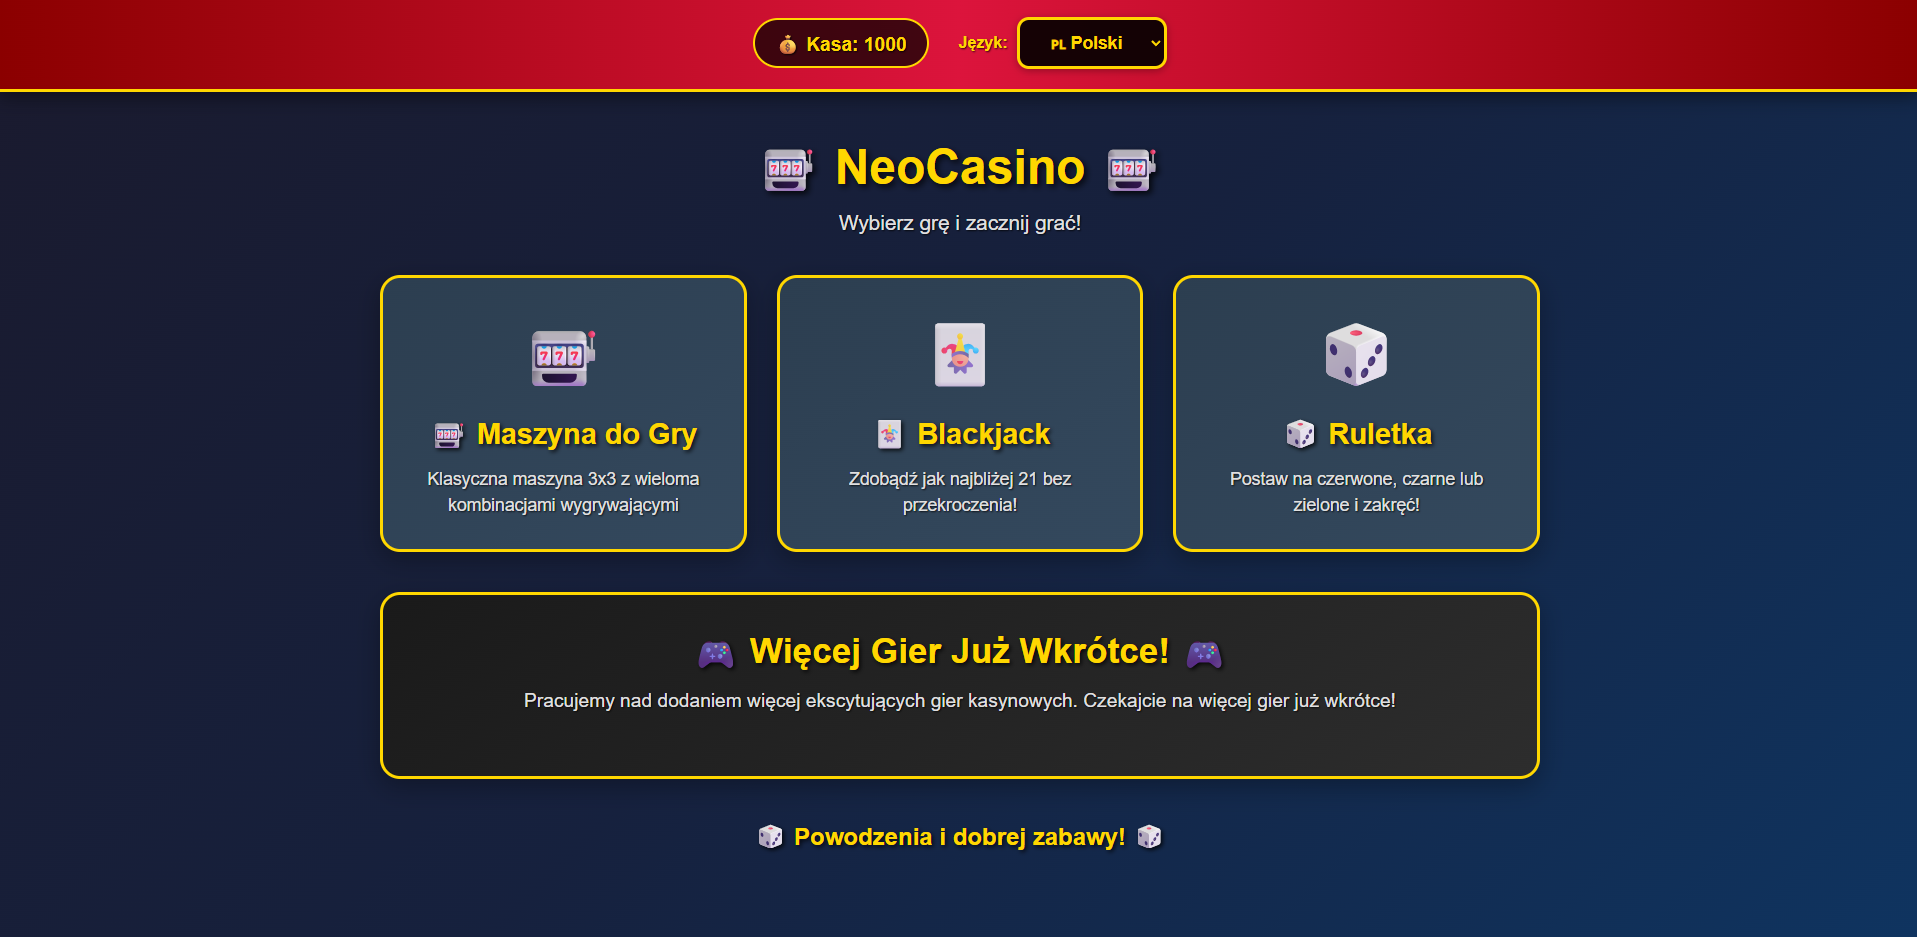
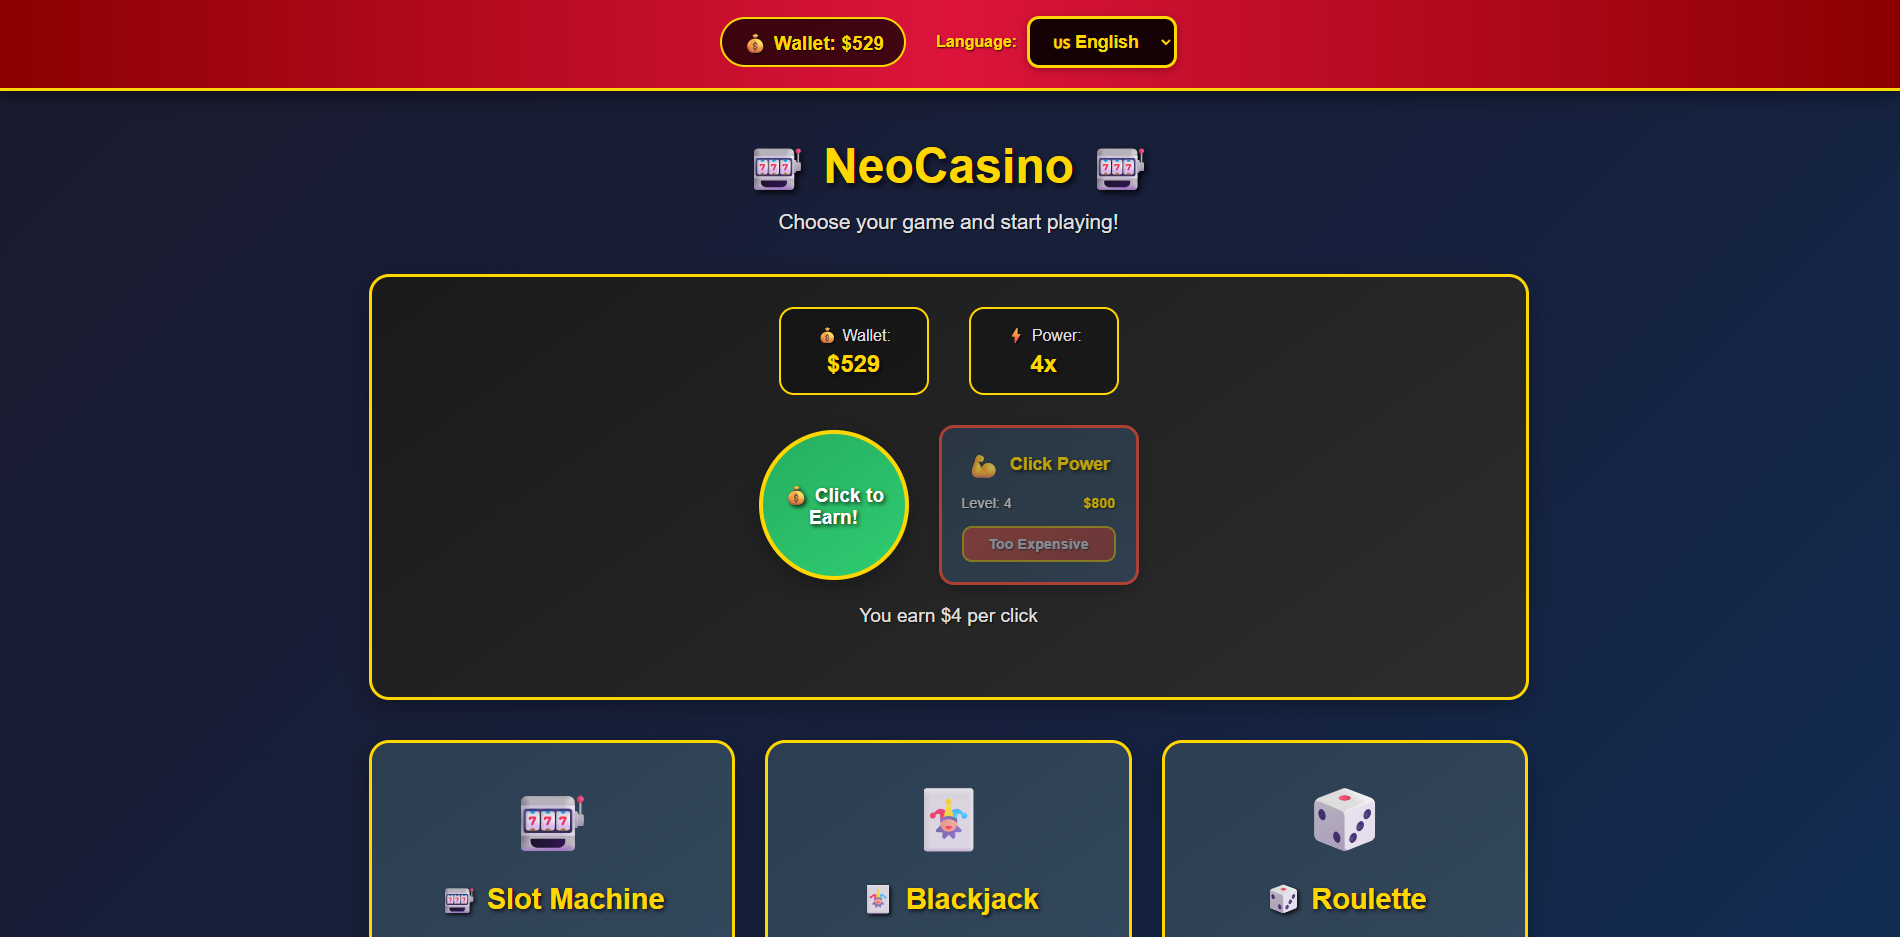
feat: add more infmoraction about neoCasino and devLink

diff --git a/public/output.css b/public/output.css
@@ -283,9 +283,6 @@
   .bottom-32 {
     bottom: calc(var(--spacing) * 32);
   }
-  .left-1 {
-    left: calc(var(--spacing) * 1);
-  }
   .left-1\/3 {
     left: calc(1/3 * 100%);
   }
@@ -372,9 +369,6 @@
   }
   .inline-flex {
     display: inline-flex;
-  }
-  .table {
-    display: table;
   }
   .h-3 {
     height: calc(var(--spacing) * 3);
@@ -493,9 +487,6 @@
   .flex-1 {
     flex: 1;
   }
-  .border-collapse {
-    border-collapse: collapse;
-  }
   .transform {
     transform: var(--tw-rotate-x,) var(--tw-rotate-y,) var(--tw-rotate-z,) var(--tw-skew-x,) var(--tw-skew-y,);
   }
@@ -504,9 +495,6 @@
   }
   .cursor-pointer {
     cursor: pointer;
-  }
-  .resize {
-    resize: both;
   }
   .grid-cols-1 {
     grid-template-columns: repeat(1, minmax(0, 1fr));
@@ -660,9 +648,6 @@
     border-bottom-style: var(--tw-border-style);
     border-bottom-width: 1px;
   }
-  .border-purple-400 {
-    border-color: var(--color-purple-400);
-  }
   .border-purple-400\/30 {
     border-color: color-mix(in srgb, oklch(71.4% 0.203 305.504) 30%, transparent);
     @supports (color: color-mix(in lab, red, red)) {
@@ -671,9 +656,6 @@
   }
   .border-teal-400 {
     border-color: var(--color-teal-400);
-  }
-  .border-white {
-    border-color: var(--color-white);
   }
   .border-white\/10 {
     border-color: color-mix(in srgb, #fff 10%, transparent);
@@ -719,9 +701,6 @@
     @supports (color: color-mix(in lab, red, red)) {
       background-color: color-mix(in oklab, var(--color-black) 95%, transparent);
     }
-  }
-  .bg-slate-900 {
-    background-color: var(--color-slate-900);
   }
   .bg-slate-900\/50 {
     background-color: color-mix(in srgb, oklch(20.8% 0.042 265.755) 50%, transparent);
@@ -771,19 +750,11 @@
   .bg-\[radial-gradient\(circle_at_50\%_50\%\,rgba\(120\,119\,198\,0\.3\)\,transparent_50\%\)\] {
     background-image: radial-gradient(circle at 50% 50%,rgba(120,119,198,0.3),transparent 50%);
   }
-  .from-blue-500 {
-    --tw-gradient-from: var(--color-blue-500);
-    --tw-gradient-stops: var(--tw-gradient-via-stops, var(--tw-gradient-position), var(--tw-gradient-from) var(--tw-gradient-from-position), var(--tw-gradient-to) var(--tw-gradient-to-position));
-  }
   .from-blue-500\/20 {
     --tw-gradient-from: color-mix(in srgb, oklch(62.3% 0.214 259.815) 20%, transparent);
     @supports (color: color-mix(in lab, red, red)) {
       --tw-gradient-from: color-mix(in oklab, var(--color-blue-500) 20%, transparent);
     }
-    --tw-gradient-stops: var(--tw-gradient-via-stops, var(--tw-gradient-position), var(--tw-gradient-from) var(--tw-gradient-from-position), var(--tw-gradient-to) var(--tw-gradient-to-position));
-  }
-  .from-indigo-500 {
-    --tw-gradient-from: var(--color-indigo-500);
     --tw-gradient-stops: var(--tw-gradient-via-stops, var(--tw-gradient-position), var(--tw-gradient-from) var(--tw-gradient-from-position), var(--tw-gradient-to) var(--tw-gradient-to-position));
   }
   .from-indigo-500\/20 {
@@ -871,10 +842,6 @@
     --tw-gradient-to: var(--color-blue-600);
     --tw-gradient-stops: var(--tw-gradient-via-stops, var(--tw-gradient-position), var(--tw-gradient-from) var(--tw-gradient-from-position), var(--tw-gradient-to) var(--tw-gradient-to-position));
   }
-  .to-cyan-500 {
-    --tw-gradient-to: var(--color-cyan-500);
-    --tw-gradient-stops: var(--tw-gradient-via-stops, var(--tw-gradient-position), var(--tw-gradient-from) var(--tw-gradient-from-position), var(--tw-gradient-to) var(--tw-gradient-to-position));
-  }
   .to-cyan-500\/20 {
     --tw-gradient-to: color-mix(in srgb, oklch(71.5% 0.143 215.221) 20%, transparent);
     @supports (color: color-mix(in lab, red, red)) {
@@ -894,19 +861,11 @@
     --tw-gradient-to: var(--color-indigo-600);
     --tw-gradient-stops: var(--tw-gradient-via-stops, var(--tw-gradient-position), var(--tw-gradient-from) var(--tw-gradient-from-position), var(--tw-gradient-to) var(--tw-gradient-to-position));
   }
-  .to-pink-500 {
-    --tw-gradient-to: var(--color-pink-500);
-    --tw-gradient-stops: var(--tw-gradient-via-stops, var(--tw-gradient-position), var(--tw-gradient-from) var(--tw-gradient-from-position), var(--tw-gradient-to) var(--tw-gradient-to-position));
-  }
   .to-pink-500\/20 {
     --tw-gradient-to: color-mix(in srgb, oklch(65.6% 0.241 354.308) 20%, transparent);
     @supports (color: color-mix(in lab, red, red)) {
       --tw-gradient-to: color-mix(in oklab, var(--color-pink-500) 20%, transparent);
     }
-    --tw-gradient-stops: var(--tw-gradient-via-stops, var(--tw-gradient-position), var(--tw-gradient-from) var(--tw-gradient-from-position), var(--tw-gradient-to) var(--tw-gradient-to-position));
-  }
-  .to-purple-500 {
-    --tw-gradient-to: var(--color-purple-500);
     --tw-gradient-stops: var(--tw-gradient-via-stops, var(--tw-gradient-position), var(--tw-gradient-from) var(--tw-gradient-from-position), var(--tw-gradient-to) var(--tw-gradient-to-position));
   }
   .to-purple-500\/20 {
@@ -1130,9 +1089,6 @@
   .text-yellow-400 {
     color: var(--color-yellow-400);
   }
-  .underline {
-    text-decoration-line: underline;
-  }
   .opacity-0 {
     opacity: 0%;
   }
@@ -1158,10 +1114,6 @@
     --tw-shadow: 0 20px 25px -5px var(--tw-shadow-color, rgb(0 0 0 / 0.1)), 0 8px 10px -6px var(--tw-shadow-color, rgb(0 0 0 / 0.1));
     box-shadow: var(--tw-inset-shadow), var(--tw-inset-ring-shadow), var(--tw-ring-offset-shadow), var(--tw-ring-shadow), var(--tw-shadow);
   }
-  .outline {
-    outline-style: var(--tw-outline-style);
-    outline-width: 1px;
-  }
   .blur-2xl {
     --tw-blur: blur(var(--blur-2xl));
     filter: var(--tw-blur,) var(--tw-brightness,) var(--tw-contrast,) var(--tw-grayscale,) var(--tw-hue-rotate,) var(--tw-invert,) var(--tw-saturate,) var(--tw-sepia,) var(--tw-drop-shadow,);
@@ -1179,9 +1131,6 @@
     --tw-drop-shadow: drop-shadow(var(--drop-shadow-lg));
     filter: var(--tw-blur,) var(--tw-brightness,) var(--tw-contrast,) var(--tw-grayscale,) var(--tw-hue-rotate,) var(--tw-invert,) var(--tw-saturate,) var(--tw-sepia,) var(--tw-drop-shadow,);
   }
-  .filter {
-    filter: var(--tw-blur,) var(--tw-brightness,) var(--tw-contrast,) var(--tw-grayscale,) var(--tw-hue-rotate,) var(--tw-invert,) var(--tw-saturate,) var(--tw-sepia,) var(--tw-drop-shadow,);
-  }
   .backdrop-blur-md {
     --tw-backdrop-blur: blur(var(--blur-md));
     -webkit-backdrop-filter: var(--tw-backdrop-blur,) var(--tw-backdrop-brightness,) var(--tw-backdrop-contrast,) var(--tw-backdrop-grayscale,) var(--tw-backdrop-hue-rotate,) var(--tw-backdrop-invert,) var(--tw-backdrop-opacity,) var(--tw-backdrop-saturate,) var(--tw-backdrop-sepia,);
@@ -1189,10 +1138,6 @@
   }
   .backdrop-blur-sm {
     --tw-backdrop-blur: blur(var(--blur-sm));
-    -webkit-backdrop-filter: var(--tw-backdrop-blur,) var(--tw-backdrop-brightness,) var(--tw-backdrop-contrast,) var(--tw-backdrop-grayscale,) var(--tw-backdrop-hue-rotate,) var(--tw-backdrop-invert,) var(--tw-backdrop-opacity,) var(--tw-backdrop-saturate,) var(--tw-backdrop-sepia,);
-    backdrop-filter: var(--tw-backdrop-blur,) var(--tw-backdrop-brightness,) var(--tw-backdrop-contrast,) var(--tw-backdrop-grayscale,) var(--tw-backdrop-hue-rotate,) var(--tw-backdrop-invert,) var(--tw-backdrop-opacity,) var(--tw-backdrop-saturate,) var(--tw-backdrop-sepia,);
-  }
-  .backdrop-filter {
     -webkit-backdrop-filter: var(--tw-backdrop-blur,) var(--tw-backdrop-brightness,) var(--tw-backdrop-contrast,) var(--tw-backdrop-grayscale,) var(--tw-backdrop-hue-rotate,) var(--tw-backdrop-invert,) var(--tw-backdrop-opacity,) var(--tw-backdrop-saturate,) var(--tw-backdrop-sepia,);
     backdrop-filter: var(--tw-backdrop-blur,) var(--tw-backdrop-brightness,) var(--tw-backdrop-contrast,) var(--tw-backdrop-grayscale,) var(--tw-backdrop-hue-rotate,) var(--tw-backdrop-invert,) var(--tw-backdrop-opacity,) var(--tw-backdrop-saturate,) var(--tw-backdrop-sepia,);
   }
@@ -2077,11 +2022,6 @@ body {
   inherits: false;
   initial-value: 0 0 #0000;
 }
-@property --tw-outline-style {
-  syntax: "*";
-  inherits: false;
-  initial-value: solid;
-}
 @property --tw-blur {
   syntax: "*";
   inherits: false;
@@ -2236,7 +2176,6 @@ body {
       --tw-ring-offset-width: 0px;
       --tw-ring-offset-color: #fff;
       --tw-ring-offset-shadow: 0 0 #0000;
-      --tw-outline-style: solid;
       --tw-blur: initial;
       --tw-brightness: initial;
       --tw-contrast: initial;

diff --git a/src/pages/projects/NeoCasinoPage.js b/src/pages/projects/NeoCasinoPage.js
@@ -7,6 +7,8 @@ import neoCasinoSlotPhoto from '../../assets/neoCasino/neoCasinoSlot.png';
 import neoCasinoLegendPhoto from '../../assets/neoCasino/legend.png';
 import neoCasinoBlackJackPhoto from '../../assets/neoCasino/blackJack.png';
 import neoCasinoRoulettePhoto from '../../assets/neoCasino/neoCasinoRoulette.png';
+import neoCasinoCrashPhoto from '../../assets/neoCasino/neoCasinoCrash.png';
+import neoCasinoScratchCardPhoto from '../../assets/neoCasino/neoCasinoScratchCard.png';
 
 const NeoCasinoPage = () => {
   const { t } = useTranslation();
@@ -66,6 +68,18 @@ const NeoCasinoPage = () => {
       alt: t("neoCasinoRouletteTitle"),
       title: t("neoCasinoRouletteTitle"),
       description: t("neoCasinoRouletteText"),
+    },
+    {
+      image: neoCasinoScratchCardPhoto,
+      alt: t("neoCasinoScratchCardTitle"),
+      title: t("neoCasinoScratchCardTitle"),
+      description: t("neoCasinoScratchCardText"),
+    },
+    {
+      image: neoCasinoCrashPhoto,
+      alt: t("neoCasinoCrashTitle"),
+      title: t("neoCasinoCrashTitle"),
+      description: t("neoCasinoCrashText"),
     }
   ];
 
